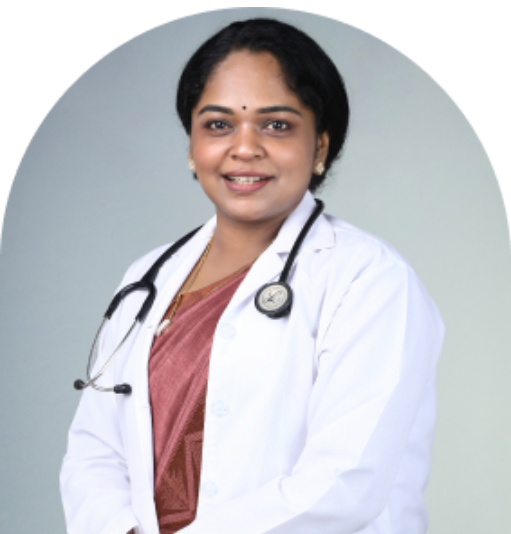
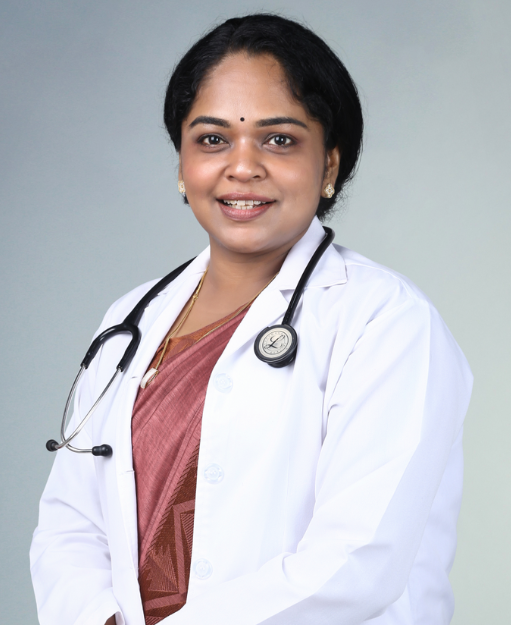
UPDATES

diff --git a/index.html b/index.html
@@ -1139,7 +1139,7 @@ Gallery Area
                 <div class="row">
                     <div style="padding: 0;" class="col-xl-12 col-lg-12 col-md-12 col-sm-12 col-xs-12">
                         <div class="gallery-item">
-                            <img src="assets/img/gal_image2.png" alt="Gallery Image 2">
+                            <img src="assets/img/gal_img_001.png" alt="Gallery Image 2">
                         </div>
                     </div>
                 </div>
@@ -1147,19 +1147,26 @@ Gallery Area
                     <div style="padding-right: 5px !important; padding-left: 0 !important;"
                         class="col-xl-6 col-lg-6 col-md-6 col-sm-12 col-xs-12">
                         <div style="margin-right: 0px;" class="gallery-item">
-                            <img src="assets/img/gal_image4.png" alt="Gallery Image 4">
+                            <img src="assets/img/gal_img_002.png" alt="Gallery Image 4">
                         </div>
                     </div>
                     <div style="padding: 0;" class="col-xl-6 col-lg-6 col-md-6 col-sm-12 col-xs-12">
                         <div class="gallery-item">
-                            <img src="assets/img/gal_image5.png" alt="Gallery Image 5">
+                            <img src="assets/img/gal_img_003.png" alt="Gallery Image 5">
+                        </div>
+                    </div>
+                </div>
+                <div class="row">
+                    <div style="padding: 0; margin-top: 5px;" class="col-xl-12 col-lg-12 col-md-12 col-sm-12 col-xs-12">
+                        <div class="gallery-item">
+                            <img src="assets/img/gal_img_005.png" alt="Gallery Image 2">
                         </div>
                     </div>
                 </div>
             </div>
             <div style="padding-top: 5px;" class="col-xl-6 col-lg-6 col-md-6 col-sm-12 col-xs-12">
                 <div style="width: 100% !important;" class="gallery-item">
-                    <img src="assets/img/gal_image3.png" alt="Gallery Image 3">
+                    <img src="assets/img/gal_img_004.png" alt="Gallery Image 3">
                 </div>
             </div>
         </div>
@@ -1186,7 +1193,7 @@ Team Area
                     class="col-sm-6 col-lg-4 col-xxl-3">
                     <div class="th-team team-box style2">
                         <div class="team-img">
-                            <img src="assets/img/doctor_anjali_devi01.png" alt="">
+                            <img src="assets/img/anjali_devi_004.png" alt="">
                         </div>
                         <div class="team-box_content">
                             <h3 style="font-size: 140%;" class="box-title"><a href="">Dr. Anjali Devi</a></h3>

diff --git a/contact.html b/contact.html
@@ -242,8 +242,12 @@ Contact Area
                             <div class="media-body">
                                 <h3 class="box-title">Phone Number </h3>
                                 <span class="contact-info_text">
-                                    Mobile:
+                                    Phone:
                                     <a href="tel:+97142992881">&nbsp; +97142992881</a>
+                                </span>
+                                <span class="contact-info_text">
+                                    Mobile:
+                                    <a href="tel:+971524731447">&nbsp; +971524731447</a>
                                 </span>
                                 <span class="contact-info_text">
                                     Email:

diff --git a/about.html b/about.html
@@ -448,7 +448,7 @@ Team Area
                     class="col-sm-6 col-lg-4 col-xxl-3">
                     <div class="th-team team-box style2">
                         <div class="team-img">
-                            <img src="assets/img/doctor_anjali_devi01.png" alt="">
+                            <img src="assets/img/anjali_devi_004.png" alt="">
                         </div>
                         <div class="team-box_content">
                             <h3 style="font-size: 140%;" class="box-title"><a href="">Dr. Anjali Devi</a></h3>

diff --git a/doctors.html b/doctors.html
@@ -388,7 +388,7 @@ Team Area
                     class="col-sm-6 col-lg-4 col-xxl-3">
                     <div class="th-team team-box style2">
                         <div class="team-img">
-                            <img src="assets/img/doctor_anjali_devi01.png" alt="">
+                            <img src="assets/img/anjali_devi_004.png" alt="">
                         </div>
                         <div class="team-box_content">
                             <h3 style="font-size: 140%;" class="box-title"><a href="">Dr. Anjali Devi</a></h3>
